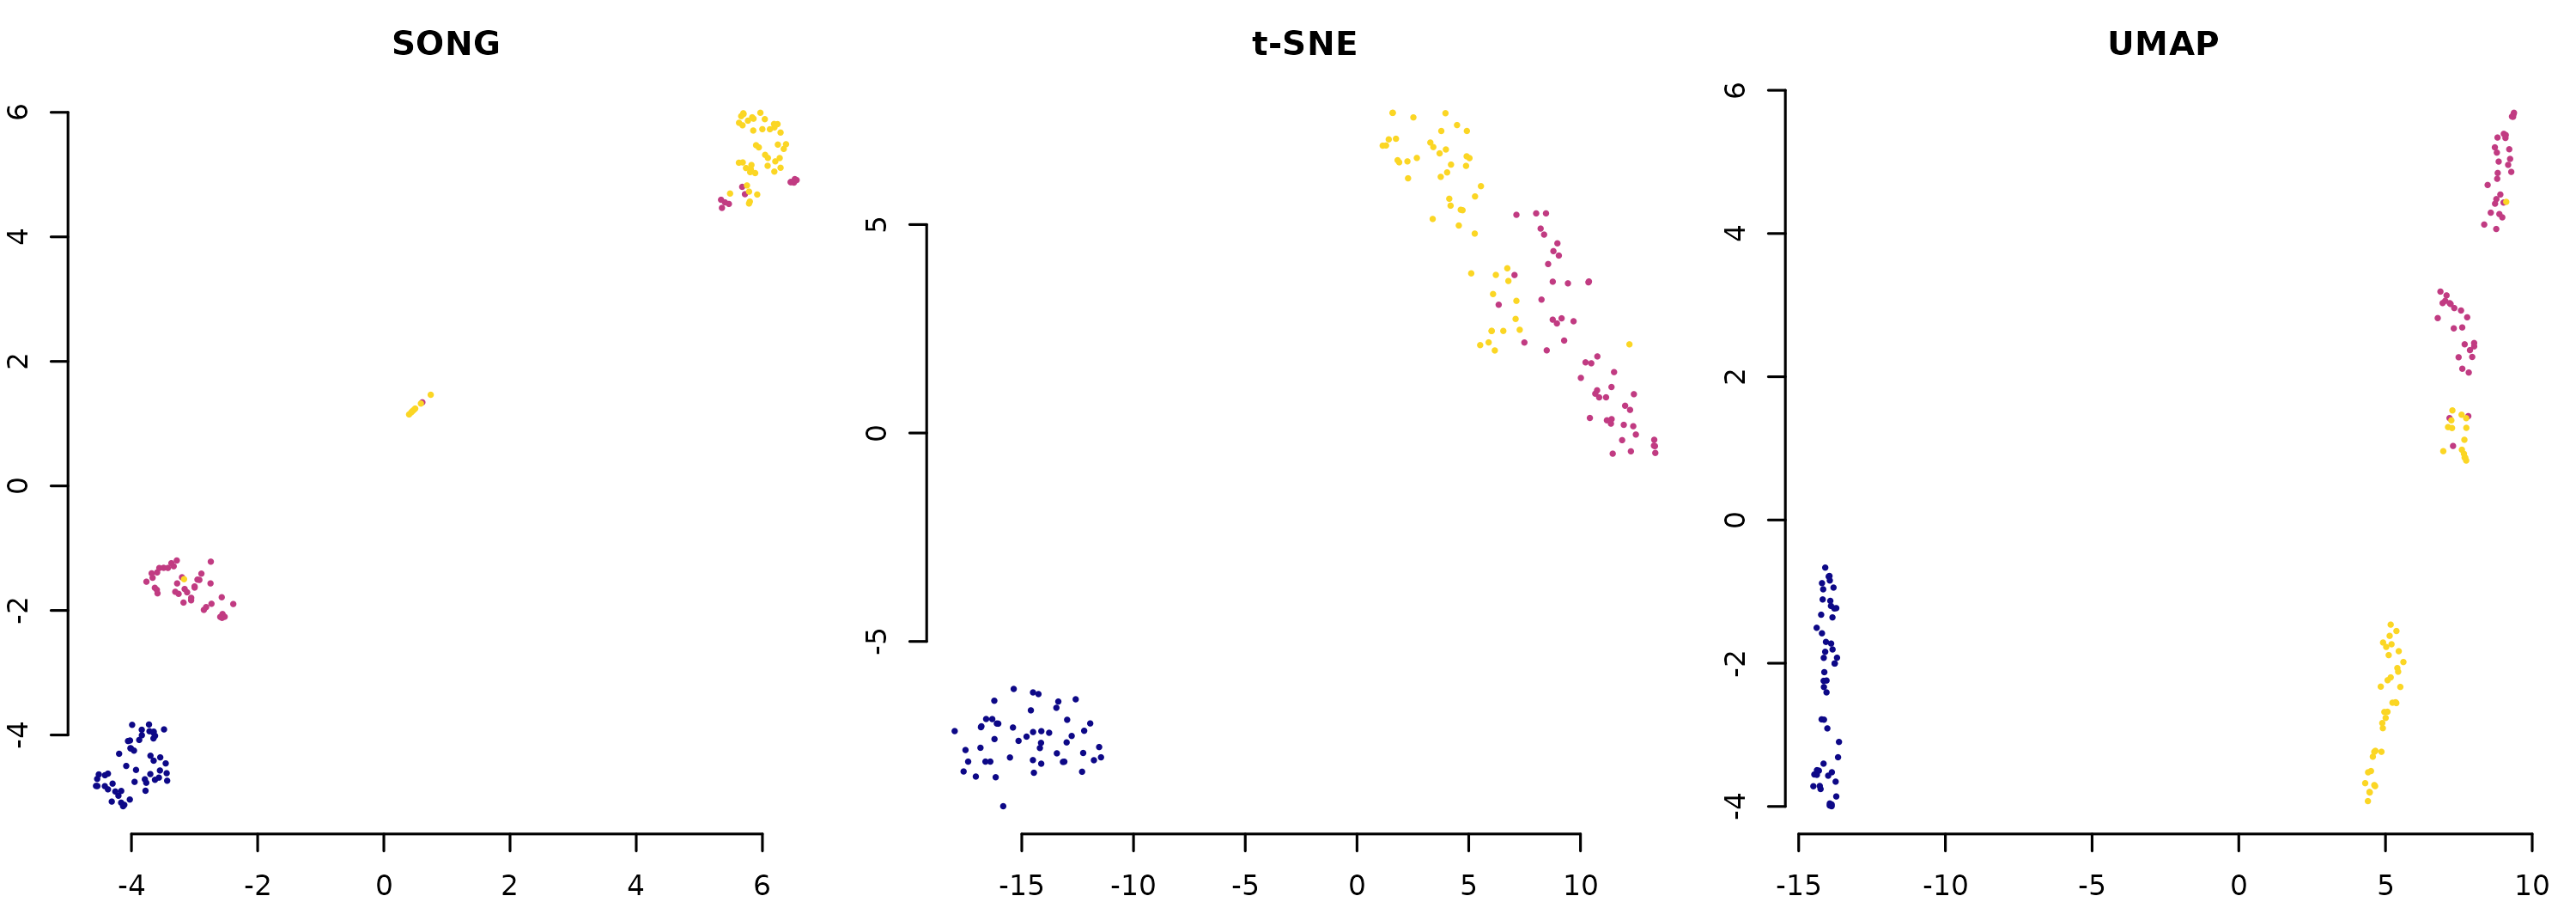
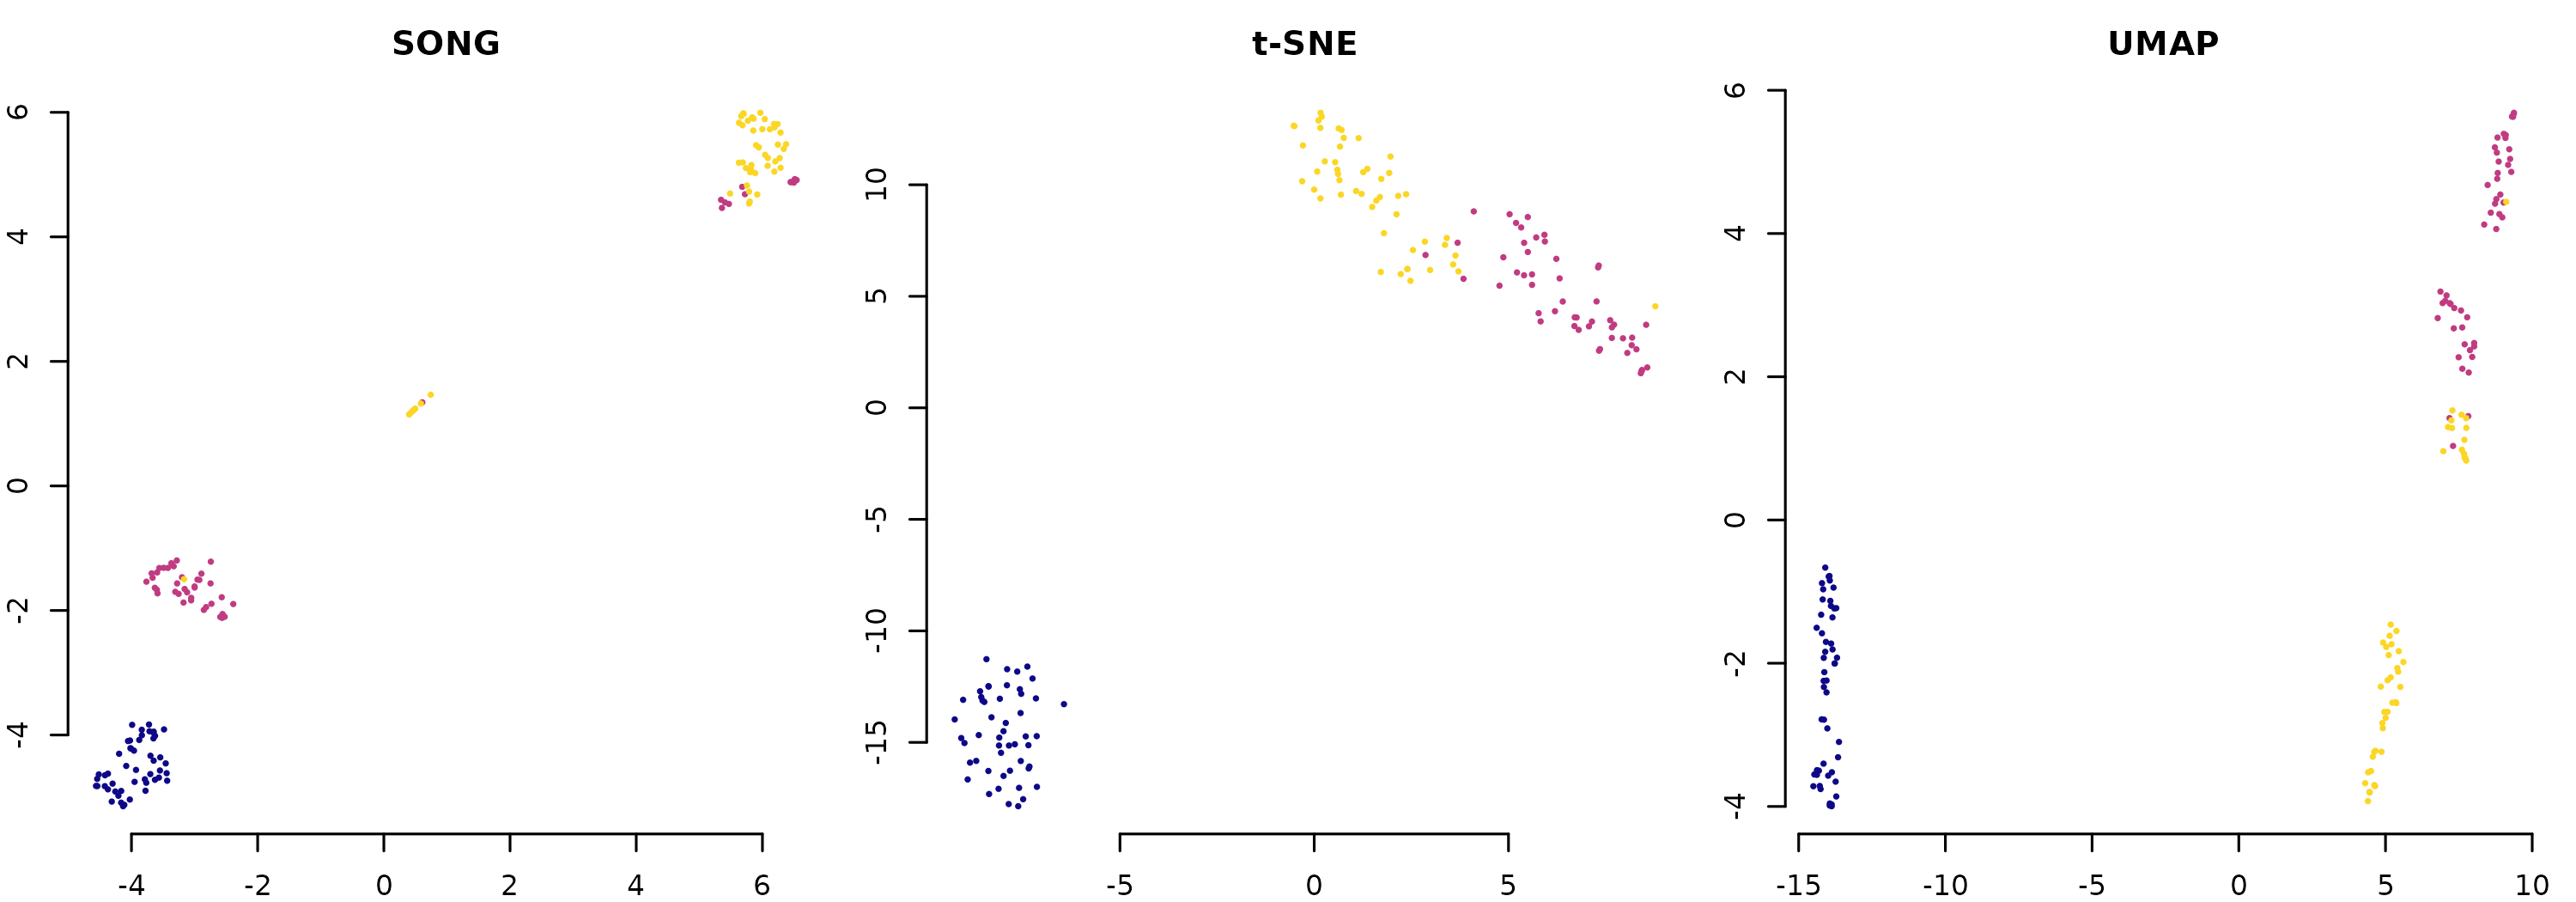
Deploying to gh-pages from @ CTTIR/songR@e97bd79a03a0263a91c1bdc85632c784badc1808 🚀

diff --git a/deps/bootstrap-5.3.8/font.css b/deps/bootstrap-5.3.8/font.css
@@ -1,0 +1,189 @@
+/* cyrillic-ext */
+@font-face {
+  font-family: 'Source Sans Pro';
+  font-style: normal;
+  font-weight: 300;
+  font-display: swap;
+  src: url(fonts/6xKydSBYKcSV-LCoeQqfX1RYOo3ik4zwmhduz8A.woff2) format('woff2');
+  unicode-range: U+0460-052F, U+1C80-1C8A, U+20B4, U+2DE0-2DFF, U+A640-A69F, U+FE2E-FE2F;
+}
+/* cyrillic */
+@font-face {
+  font-family: 'Source Sans Pro';
+  font-style: normal;
+  font-weight: 300;
+  font-display: swap;
+  src: url(fonts/6xKydSBYKcSV-LCoeQqfX1RYOo3ik4zwkxduz8A.woff2) format('woff2');
+  unicode-range: U+0301, U+0400-045F, U[phone redacted], U+04B0-04B1, U+2116;
+}
+/* greek-ext */
+@font-face {
+  font-family: 'Source Sans Pro';
+  font-style: normal;
+  font-weight: 300;
+  font-display: swap;
+  src: url(fonts/6xKydSBYKcSV-LCoeQqfX1RYOo3ik4zwmxduz8A.woff2) format('woff2');
+  unicode-range: U+1F00-1FFF;
+}
+/* greek */
+@font-face {
+  font-family: 'Source Sans Pro';
+  font-style: normal;
+  font-weight: 300;
+  font-display: swap;
+  src: url(fonts/6xKydSBYKcSV-LCoeQqfX1RYOo3ik4zwlBduz8A.woff2) format('woff2');
+  unicode-range: U[phone redacted], U+037A-037F, U+0384-038A, U+038C, U+038E-03A1, U+03A3-03FF;
+}
+/* vietnamese */
+@font-face {
+  font-family: 'Source Sans Pro';
+  font-style: normal;
+  font-weight: 300;
+  font-display: swap;
+  src: url(fonts/6xKydSBYKcSV-LCoeQqfX1RYOo3ik4zwmBduz8A.woff2) format('woff2');
+  unicode-range: U[phone redacted], U[phone redacted], U[phone redacted], U[phone redacted], U+01A0-01A1, U+01AF-01B0, U[phone redacted], U[phone redacted], U[phone redacted], U+0323, U+0329, U+1EA0-1EF9, U+20AB;
+}
+/* latin-ext */
+@font-face {
+  font-family: 'Source Sans Pro';
+  font-style: normal;
+  font-weight: 300;
+  font-display: swap;
+  src: url(fonts/6xKydSBYKcSV-LCoeQqfX1RYOo3ik4zwmRduz8A.woff2) format('woff2');
+  unicode-range: U+0100-02BA, U+02BD-02C5, U+02C7-02CC, U+02CE-02D7, U+02DD-02FF, U+0304, U+0308, U+0329, U+1D00-1DBF, U+1E00-1E9F, U+1EF2-1EFF, U+2020, U+20A0-20AB, U+20AD-20C0, U+2113, U+2C60-2C7F, U+A720-A7FF;
+}
+/* latin */
+@font-face {
+  font-family: 'Source Sans Pro';
+  font-style: normal;
+  font-weight: 300;
+  font-display: swap;
+  src: url(fonts/6xKydSBYKcSV-LCoeQqfX1RYOo3ik4zwlxdu.woff2) format('woff2');
+  unicode-range: U+0000-00FF, U+0131, U[phone redacted], U+02BB-02BC, U+02C6, U+02DA, U+02DC, U+0304, U+0308, U+0329, U+2000-206F, U+20AC, U+2122, U+2191, U+2193, U+2212, U+2215, U+FEFF, U+FFFD;
+}
+/* cyrillic-ext */
+@font-face {
+  font-family: 'Source Sans Pro';
+  font-style: normal;
+  font-weight: 400;
+  font-display: swap;
+  src: url(fonts/6xK3dSBYKcSV-LCoeQqfX1RYOo3qNa7lqDY.woff2) format('woff2');
+  unicode-range: U+0460-052F, U+1C80-1C8A, U+20B4, U+2DE0-2DFF, U+A640-A69F, U+FE2E-FE2F;
+}
+/* cyrillic */
+@font-face {
+  font-family: 'Source Sans Pro';
+  font-style: normal;
+  font-weight: 400;
+  font-display: swap;
+  src: url(fonts/6xK3dSBYKcSV-LCoeQqfX1RYOo3qPK7lqDY.woff2) format('woff2');
+  unicode-range: U+0301, U+0400-045F, U[phone redacted], U+04B0-04B1, U+2116;
+}
+/* greek-ext */
+@font-face {
+  font-family: 'Source Sans Pro';
+  font-style: normal;
+  font-weight: 400;
+  font-display: swap;
+  src: url(fonts/6xK3dSBYKcSV-LCoeQqfX1RYOo3qNK7lqDY.woff2) format('woff2');
+  unicode-range: U+1F00-1FFF;
+}
+/* greek */
+@font-face {
+  font-family: 'Source Sans Pro';
+  font-style: normal;
+  font-weight: 400;
+  font-display: swap;
+  src: url(fonts/6xK3dSBYKcSV-LCoeQqfX1RYOo3qO67lqDY.woff2) format('woff2');
+  unicode-range: U[phone redacted], U+037A-037F, U+0384-038A, U+038C, U+038E-03A1, U+03A3-03FF;
+}
+/* vietnamese */
+@font-face {
+  font-family: 'Source Sans Pro';
+  font-style: normal;
+  font-weight: 400;
+  font-display: swap;
+  src: url(fonts/6xK3dSBYKcSV-LCoeQqfX1RYOo3qN67lqDY.woff2) format('woff2');
+  unicode-range: U[phone redacted], U[phone redacted], U[phone redacted], U[phone redacted], U+01A0-01A1, U+01AF-01B0, U[phone redacted], U[phone redacted], U[phone redacted], U+0323, U+0329, U+1EA0-1EF9, U+20AB;
+}
+/* latin-ext */
+@font-face {
+  font-family: 'Source Sans Pro';
+  font-style: normal;
+  font-weight: 400;
+  font-display: swap;
+  src: url(fonts/6xK3dSBYKcSV-LCoeQqfX1RYOo3qNq7lqDY.woff2) format('woff2');
+  unicode-range: U+0100-02BA, U+02BD-02C5, U+02C7-02CC, U+02CE-02D7, U+02DD-02FF, U+0304, U+0308, U+0329, U+1D00-1DBF, U+1E00-1E9F, U+1EF2-1EFF, U+2020, U+20A0-20AB, U+20AD-20C0, U+2113, U+2C60-2C7F, U+A720-A7FF;
+}
+/* latin */
+@font-face {
+  font-family: 'Source Sans Pro';
+  font-style: normal;
+  font-weight: 400;
+  font-display: swap;
+  src: url(fonts/6xK3dSBYKcSV-LCoeQqfX1RYOo3qOK7l.woff2) format('woff2');
+  unicode-range: U+0000-00FF, U+0131, U[phone redacted], U+02BB-02BC, U+02C6, U+02DA, U+02DC, U+0304, U+0308, U+0329, U+2000-206F, U+20AC, U+2122, U+2191, U+2193, U+2212, U+2215, U+FEFF, U+FFFD;
+}
+/* cyrillic-ext */
+@font-face {
+  font-family: 'Source Sans Pro';
+  font-style: normal;
+  font-weight: 700;
+  font-display: swap;
+  src: url(fonts/6xKydSBYKcSV-LCoeQqfX1RYOo3ig4vwmhduz8A.woff2) format('woff2');
+  unicode-range: U+0460-052F, U+1C80-1C8A, U+20B4, U+2DE0-2DFF, U+A640-A69F, U+FE2E-FE2F;
+}
+/* cyrillic */
+@font-face {
+  font-family: 'Source Sans Pro';
+  font-style: normal;
+  font-weight: 700;
+  font-display: swap;
+  src: url(fonts/6xKydSBYKcSV-LCoeQqfX1RYOo3ig4vwkxduz8A.woff2) format('woff2');
+  unicode-range: U+0301, U+0400-045F, U[phone redacted], U+04B0-04B1, U+2116;
+}
+/* greek-ext */
+@font-face {
+  font-family: 'Source Sans Pro';
+  font-style: normal;
+  font-weight: 700;
+  font-display: swap;
+  src: url(fonts/6xKydSBYKcSV-LCoeQqfX1RYOo3ig4vwmxduz8A.woff2) format('woff2');
+  unicode-range: U+1F00-1FFF;
+}
+/* greek */
+@font-face {
+  font-family: 'Source Sans Pro';
+  font-style: normal;
+  font-weight: 700;
+  font-display: swap;
+  src: url(fonts/6xKydSBYKcSV-LCoeQqfX1RYOo3ig4vwlBduz8A.woff2) format('woff2');
+  unicode-range: U[phone redacted], U+037A-037F, U+0384-038A, U+038C, U+038E-03A1, U+03A3-03FF;
+}
+/* vietnamese */
+@font-face {
+  font-family: 'Source Sans Pro';
+  font-style: normal;
+  font-weight: 700;
+  font-display: swap;
+  src: url(fonts/6xKydSBYKcSV-LCoeQqfX1RYOo3ig4vwmBduz8A.woff2) format('woff2');
+  unicode-range: U[phone redacted], U[phone redacted], U[phone redacted], U[phone redacted], U+01A0-01A1, U+01AF-01B0, U[phone redacted], U[phone redacted], U[phone redacted], U+0323, U+0329, U+1EA0-1EF9, U+20AB;
+}
+/* latin-ext */
+@font-face {
+  font-family: 'Source Sans Pro';
+  font-style: normal;
+  font-weight: 700;
+  font-display: swap;
+  src: url(fonts/6xKydSBYKcSV-LCoeQqfX1RYOo3ig4vwmRduz8A.woff2) format('woff2');
+  unicode-range: U+0100-02BA, U+02BD-02C5, U+02C7-02CC, U+02CE-02D7, U+02DD-02FF, U+0304, U+0308, U+0329, U+1D00-1DBF, U+1E00-1E9F, U+1EF2-1EFF, U+2020, U+20A0-20AB, U+20AD-20C0, U+2113, U+2C60-2C7F, U+A720-A7FF;
+}
+/* latin */
+@font-face {
+  font-family: 'Source Sans Pro';
+  font-style: normal;
+  font-weight: 700;
+  font-display: swap;
+  src: url(fonts/6xKydSBYKcSV-LCoeQqfX1RYOo3ig4vwlxdu.woff2) format('woff2');
+  unicode-range: U+0000-00FF, U+0131, U[phone redacted], U+02BB-02BC, U+02C6, U+02DA, U+02DC, U+0304, U+0308, U+0329, U+2000-206F, U+20AC, U+2122, U+2191, U+2193, U+2212, U+2215, U+FEFF, U+FFFD;
+}

diff --git a/articles/reproducing_paper_figures.html b/articles/reproducing_paper_figures.html
@@ -12,8 +12,8 @@
 <link rel="icon" sizes="any" href="../favicon.ico">
 <link rel="manifest" href="../site.webmanifest">
 <script src="../deps/jquery-3.6.0/jquery-3.6.0.min.js"></script><meta name="viewport" content="width=device-width, initial-scale=1, shrink-to-fit=no">
-<link href="../deps/bootstrap-5.3.1/bootstrap.min.css" rel="stylesheet">
-<script src="../deps/bootstrap-5.3.1/bootstrap.bundle.min.js"></script><link href="../deps/font-awesome-6.5.2/css/all.min.css" rel="stylesheet">
+<link href="../deps/bootstrap-5.3.8/bootstrap.min.css" rel="stylesheet">
+<script src="../deps/bootstrap-5.3.8/bootstrap.bundle.min.js"></script><link href="../deps/font-awesome-6.5.2/css/all.min.css" rel="stylesheet">
 <link href="../deps/font-awesome-6.5.2/css/v4-shims.min.css" rel="stylesheet">
 <script src="../deps/headroom-0.11.0/headroom.min.js"></script><script src="../deps/headroom-0.11.0/jQuery.headroom.min.js"></script><script src="../deps/bootstrap-toc-1.0.1/bootstrap-toc.min.js"></script><script src="../deps/clipboard.js-2.0.11/clipboard.min.js"></script><script src="../deps/search-1.0.0/autocomplete.jquery.min.js"></script><script src="../deps/search-1.0.0/fuse.min.js"></script><script src="../deps/search-1.0.0/mark.min.js"></script><!-- pkgdown --><script src="../pkgdown.js"></script><meta property="og:title" content="Reproducing Paper Figures with songR">
 </head>
@@ -67,7 +67,7 @@
                         <h4 data-toc-skip class="author">Raban
 Heller</h4>
             
-            <h4 data-toc-skip class="date">2026-05-04</h4>
+            <h4 data-toc-skip class="date">2026-06-10</h4>
       
       <small class="dont-index">Source: <a href="https://github.com/r-heller/songR/blob/main/vignettes/articles/reproducing_paper_figures.Rmd" class="external-link"><code>vignettes/articles/reproducing_paper_figures.Rmd</code></a></small>
       <div class="d-none name"><code>reproducing_paper_figures.Rmd</code></div>
@@ -481,10 +481,10 @@ Visualization. <em>IEEE TNNLS</em>, 32(10), 4588-4602. <a href="https://doi.org/
 <span><span class="co">#&gt;  [1] Matrix_1.7-5       gtable_0.3.6       jsonlite_2.0.0     compiler_4.6.0    </span></span>
 <span><span class="co">#&gt;  [5] Rcpp_1.1.1-1.1     FNN_1.1.4.1        gridExtra_2.3      jquerylib_0.1.4   </span></span>
 <span><span class="co">#&gt;  [9] systemfonts_1.3.2  scales_1.4.0       textshaping_1.0.5  yaml_2.3.12       </span></span>
-<span><span class="co">#&gt; [13] fastmap_1.2.0      uwot_0.2.4         aricode_1.0.3      lattice_0.22-9    </span></span>
+<span><span class="co">#&gt; [13] fastmap_1.2.0      uwot_0.2.4         aricode_1.1.0      lattice_0.22-9    </span></span>
 <span><span class="co">#&gt; [17] ggplot2_4.0.3      R6_2.6.1           knitr_1.51         Rtsne_0.17        </span></span>
-<span><span class="co">#&gt; [21] desc_1.4.3         bslib_0.10.0       RColorBrewer_1.1-3 rlang_1.2.0       </span></span>
-<span><span class="co">#&gt; [25] cachem_1.1.0       xfun_0.57          fs_2.1.0           sass_0.4.10       </span></span>
+<span><span class="co">#&gt; [21] desc_1.4.3         bslib_0.11.0       RColorBrewer_1.1-3 rlang_1.2.0       </span></span>
+<span><span class="co">#&gt; [25] cachem_1.1.0       xfun_0.58          fs_2.1.0           sass_0.4.10       </span></span>
 <span><span class="co">#&gt; [29] S7_0.2.2           otel_0.2.0         cli_3.6.6          pkgdown_2.2.0     </span></span>
 <span><span class="co">#&gt; [33] digest_0.6.39      grid_4.6.0         irlba_2.3.7        lifecycle_1.0.5   </span></span>
 <span><span class="co">#&gt; [37] vctrs_0.7.3        evaluate_1.0.5     glue_1.8.1         farver_2.1.2      </span></span>

diff --git a/articles/introduction.html b/articles/introduction.html
@@ -12,8 +12,8 @@
 <link rel="icon" sizes="any" href="../favicon.ico">
 <link rel="manifest" href="../site.webmanifest">
 <script src="../deps/jquery-3.6.0/jquery-3.6.0.min.js"></script><meta name="viewport" content="width=device-width, initial-scale=1, shrink-to-fit=no">
-<link href="../deps/bootstrap-5.3.1/bootstrap.min.css" rel="stylesheet">
-<script src="../deps/bootstrap-5.3.1/bootstrap.bundle.min.js"></script><link href="../deps/font-awesome-6.5.2/css/all.min.css" rel="stylesheet">
+<link href="../deps/bootstrap-5.3.8/bootstrap.min.css" rel="stylesheet">
+<script src="../deps/bootstrap-5.3.8/bootstrap.bundle.min.js"></script><link href="../deps/font-awesome-6.5.2/css/all.min.css" rel="stylesheet">
 <link href="../deps/font-awesome-6.5.2/css/v4-shims.min.css" rel="stylesheet">
 <script src="../deps/headroom-0.11.0/headroom.min.js"></script><script src="../deps/headroom-0.11.0/jQuery.headroom.min.js"></script><script src="../deps/bootstrap-toc-1.0.1/bootstrap-toc.min.js"></script><script src="../deps/clipboard.js-2.0.11/clipboard.min.js"></script><script src="../deps/search-1.0.0/autocomplete.jquery.min.js"></script><script src="../deps/search-1.0.0/fuse.min.js"></script><script src="../deps/search-1.0.0/mark.min.js"></script><!-- pkgdown --><script src="../pkgdown.js"></script><meta property="og:title" content="Introduction to songR">
 </head>
@@ -67,7 +67,7 @@
                         <h4 data-toc-skip class="author">Raban
 Heller</h4>
             
-            <h4 data-toc-skip class="date">2026-05-04</h4>
+            <h4 data-toc-skip class="date">2026-06-10</h4>
       
       <small class="dont-index">Source: <a href="https://github.com/r-heller/songR/blob/main/vignettes/introduction.Rmd" class="external-link"><code>vignettes/introduction.Rmd</code></a></small>
       <div class="d-none name"><code>introduction.Rmd</code></div>
@@ -396,14 +396,14 @@ side-by-side on your own data.</p>
 <span><span class="co">#&gt; </span></span>
 <span><span class="co">#&gt; loaded via a namespace (and not attached):</span></span>
 <span><span class="co">#&gt;  [1] vctrs_0.7.3        cli_3.6.6          knitr_1.51         rlang_1.2.0       </span></span>
-<span><span class="co">#&gt;  [5] xfun_0.57          otel_0.2.0         S7_0.2.2           textshaping_1.0.5 </span></span>
+<span><span class="co">#&gt;  [5] xfun_0.58          otel_0.2.0         S7_0.2.2           textshaping_1.0.5 </span></span>
 <span><span class="co">#&gt;  [9] jsonlite_2.0.0     glue_1.8.1         Rtsne_0.17         htmltools_0.5.9   </span></span>
 <span><span class="co">#&gt; [13] ragg_1.5.2         sass_0.4.10        uwot_0.2.4         scales_1.4.0      </span></span>
 <span><span class="co">#&gt; [17] rmarkdown_2.31     grid_4.6.0         evaluate_1.0.5     jquerylib_0.1.4   </span></span>
 <span><span class="co">#&gt; [21] fastmap_1.2.0      yaml_2.3.12        lifecycle_1.0.5    FNN_1.1.4.1       </span></span>
 <span><span class="co">#&gt; [25] compiler_4.6.0     RColorBrewer_1.1-3 fs_2.1.0           Rcpp_1.1.1-1.1    </span></span>
 <span><span class="co">#&gt; [29] farver_2.1.2       systemfonts_1.3.2  lattice_0.22-9     digest_0.6.39     </span></span>
-<span><span class="co">#&gt; [33] R6_2.6.1           bslib_0.10.0       Matrix_1.7-5       gtable_0.3.6      </span></span>
+<span><span class="co">#&gt; [33] R6_2.6.1           bslib_0.11.0       Matrix_1.7-5       gtable_0.3.6      </span></span>
 <span><span class="co">#&gt; [37] tools_4.6.0        ggplot2_4.0.3      pkgdown_2.2.0      cachem_1.1.0      </span></span>
 <span><span class="co">#&gt; [41] desc_1.4.3</span></span></code></pre></div>
 </div>

diff --git a/articles/songR_quickstart.html b/articles/songR_quickstart.html
@@ -12,8 +12,8 @@
 <link rel="icon" sizes="any" href="../favicon.ico">
 <link rel="manifest" href="../site.webmanifest">
 <script src="../deps/jquery-3.6.0/jquery-3.6.0.min.js"></script><meta name="viewport" content="width=device-width, initial-scale=1, shrink-to-fit=no">
-<link href="../deps/bootstrap-5.3.1/bootstrap.min.css" rel="stylesheet">
-<script src="../deps/bootstrap-5.3.1/bootstrap.bundle.min.js"></script><link href="../deps/font-awesome-6.5.2/css/all.min.css" rel="stylesheet">
+<link href="../deps/bootstrap-5.3.8/bootstrap.min.css" rel="stylesheet">
+<script src="../deps/bootstrap-5.3.8/bootstrap.bundle.min.js"></script><link href="../deps/font-awesome-6.5.2/css/all.min.css" rel="stylesheet">
 <link href="../deps/font-awesome-6.5.2/css/v4-shims.min.css" rel="stylesheet">
 <script src="../deps/headroom-0.11.0/headroom.min.js"></script><script src="../deps/headroom-0.11.0/jQuery.headroom.min.js"></script><script src="../deps/bootstrap-toc-1.0.1/bootstrap-toc.min.js"></script><script src="../deps/clipboard.js-2.0.11/clipboard.min.js"></script><script src="../deps/search-1.0.0/autocomplete.jquery.min.js"></script><script src="../deps/search-1.0.0/fuse.min.js"></script><script src="../deps/search-1.0.0/mark.min.js"></script><!-- pkgdown --><script src="../pkgdown.js"></script><meta property="og:title" content="Getting Started with songR">
 </head>
@@ -67,7 +67,7 @@
                         <h4 data-toc-skip class="author">Raban
 Heller</h4>
             
-            <h4 data-toc-skip class="date">2026-05-04</h4>
+            <h4 data-toc-skip class="date">2026-06-10</h4>
       
       <small class="dont-index">Source: <a href="https://github.com/r-heller/songR/blob/main/vignettes/songR_quickstart.Rmd" class="external-link"><code>vignettes/songR_quickstart.Rmd</code></a></small>
       <div class="d-none name"><code>songR_quickstart.Rmd</code></div>
@@ -401,14 +401,14 @@ Systems</em>, 32(10), 4588-4602. <a href="https://doi.org/10.1109/TNNLS.2020.302
 <span><span class="co">#&gt; </span></span>
 <span><span class="co">#&gt; loaded via a namespace (and not attached):</span></span>
 <span><span class="co">#&gt;  [1] vctrs_0.7.3        cli_3.6.6          knitr_1.51         rlang_1.2.0       </span></span>
-<span><span class="co">#&gt;  [5] xfun_0.57          otel_0.2.0         S7_0.2.2           textshaping_1.0.5 </span></span>
+<span><span class="co">#&gt;  [5] xfun_0.58          otel_0.2.0         S7_0.2.2           textshaping_1.0.5 </span></span>
 <span><span class="co">#&gt;  [9] jsonlite_2.0.0     glue_1.8.1         htmltools_0.5.9    ragg_1.5.2        </span></span>
 <span><span class="co">#&gt; [13] sass_0.4.10        uwot_0.2.4         scales_1.4.0       rmarkdown_2.31    </span></span>
 <span><span class="co">#&gt; [17] grid_4.6.0         evaluate_1.0.5     jquerylib_0.1.4    fastmap_1.2.0     </span></span>
 <span><span class="co">#&gt; [21] yaml_2.3.12        lifecycle_1.0.5    FNN_1.1.4.1        compiler_4.6.0    </span></span>
 <span><span class="co">#&gt; [25] RColorBrewer_1.1-3 fs_2.1.0           Rcpp_1.1.1-1.1     lattice_0.22-9    </span></span>
 <span><span class="co">#&gt; [29] farver_2.1.2       systemfonts_1.3.2  digest_0.6.39      R6_2.6.1          </span></span>
-<span><span class="co">#&gt; [33] Matrix_1.7-5       bslib_0.10.0       gtable_0.3.6       tools_4.6.0       </span></span>
+<span><span class="co">#&gt; [33] Matrix_1.7-5       bslib_0.11.0       gtable_0.3.6       tools_4.6.0       </span></span>
 <span><span class="co">#&gt; [37] pkgdown_2.2.0      ggplot2_4.0.3      cachem_1.1.0       desc_1.4.3</span></span></code></pre></div>
 </div>
   </main><aside class="col-md-3"><nav id="toc" aria-label="Table of contents"><h2>On this page</h2>

diff --git a/articles/songR_shiny_app.html b/articles/songR_shiny_app.html
@@ -12,8 +12,8 @@
 <link rel="icon" sizes="any" href="../favicon.ico">
 <link rel="manifest" href="../site.webmanifest">
 <script src="../deps/jquery-3.6.0/jquery-3.6.0.min.js"></script><meta name="viewport" content="width=device-width, initial-scale=1, shrink-to-fit=no">
-<link href="../deps/bootstrap-5.3.1/bootstrap.min.css" rel="stylesheet">
-<script src="../deps/bootstrap-5.3.1/bootstrap.bundle.min.js"></script><link href="../deps/font-awesome-6.5.2/css/all.min.css" rel="stylesheet">
+<link href="../deps/bootstrap-5.3.8/bootstrap.min.css" rel="stylesheet">
+<script src="../deps/bootstrap-5.3.8/bootstrap.bundle.min.js"></script><link href="../deps/font-awesome-6.5.2/css/all.min.css" rel="stylesheet">
 <link href="../deps/font-awesome-6.5.2/css/v4-shims.min.css" rel="stylesheet">
 <script src="../deps/headroom-0.11.0/headroom.min.js"></script><script src="../deps/headroom-0.11.0/jQuery.headroom.min.js"></script><script src="../deps/bootstrap-toc-1.0.1/bootstrap-toc.min.js"></script><script src="../deps/clipboard.js-2.0.11/clipboard.min.js"></script><script src="../deps/search-1.0.0/autocomplete.jquery.min.js"></script><script src="../deps/search-1.0.0/fuse.min.js"></script><script src="../deps/search-1.0.0/mark.min.js"></script><!-- pkgdown --><script src="../pkgdown.js"></script><meta property="og:title" content="Interactive Visualization with the songR Shiny App">
 </head>
@@ -67,7 +67,7 @@
                         <h4 data-toc-skip class="author">Raban
 Heller</h4>
             
-            <h4 data-toc-skip class="date">2026-05-04</h4>
+            <h4 data-toc-skip class="date">2026-06-10</h4>
       
       <small class="dont-index">Source: <a href="https://github.com/r-heller/songR/blob/main/vignettes/articles/songR_shiny_app.Rmd" class="external-link"><code>vignettes/articles/songR_shiny_app.Rmd</code></a></small>
       <div class="d-none name"><code>songR_shiny_app.Rmd</code></div>
@@ -257,10 +257,10 @@ PNG/PDF</li>
 <span><span class="co">#&gt; </span></span>
 <span><span class="co">#&gt; loaded via a namespace (and not attached):</span></span>
 <span><span class="co">#&gt;  [1] digest_0.6.39     desc_1.4.3        R6_2.6.1          fastmap_1.2.0    </span></span>
-<span><span class="co">#&gt;  [5] xfun_0.57         cachem_1.1.0      knitr_1.51        htmltools_0.5.9  </span></span>
+<span><span class="co">#&gt;  [5] xfun_0.58         cachem_1.1.0      knitr_1.51        htmltools_0.5.9  </span></span>
 <span><span class="co">#&gt;  [9] rmarkdown_2.31    lifecycle_1.0.5   cli_3.6.6         sass_0.4.10      </span></span>
 <span><span class="co">#&gt; [13] pkgdown_2.2.0     textshaping_1.0.5 jquerylib_0.1.4   systemfonts_1.3.2</span></span>
-<span><span class="co">#&gt; [17] compiler_4.6.0    tools_4.6.0       ragg_1.5.2        bslib_0.10.0     </span></span>
+<span><span class="co">#&gt; [17] compiler_4.6.0    tools_4.6.0       ragg_1.5.2        bslib_0.11.0     </span></span>
 <span><span class="co">#&gt; [21] evaluate_1.0.5    yaml_2.3.12       otel_0.2.0        jsonlite_2.0.0   </span></span>
 <span><span class="co">#&gt; [25] rlang_1.2.0       fs_2.1.0</span></span></code></pre></div>
 </div>

diff --git a/404.html b/404.html
@@ -12,8 +12,8 @@
 <link rel="icon" sizes="any" href="https://r-heller.github.io/songR/favicon.ico">
 <link rel="manifest" href="https://r-heller.github.io/songR/site.webmanifest">
 <script src="https://r-heller.github.io/songR/deps/jquery-3.6.0/jquery-3.6.0.min.js"></script><meta name="viewport" content="width=device-width, initial-scale=1, shrink-to-fit=no">
-<link href="https://r-heller.github.io/songR/deps/bootstrap-5.3.1/bootstrap.min.css" rel="stylesheet">
-<script src="https://r-heller.github.io/songR/deps/bootstrap-5.3.1/bootstrap.bundle.min.js"></script><link href="https://r-heller.github.io/songR/deps/font-awesome-6.5.2/css/all.min.css" rel="stylesheet">
+<link href="https://r-heller.github.io/songR/deps/bootstrap-5.3.8/bootstrap.min.css" rel="stylesheet">
+<script src="https://r-heller.github.io/songR/deps/bootstrap-5.3.8/bootstrap.bundle.min.js"></script><link href="https://r-heller.github.io/songR/deps/font-awesome-6.5.2/css/all.min.css" rel="stylesheet">
 <link href="https://r-heller.github.io/songR/deps/font-awesome-6.5.2/css/v4-shims.min.css" rel="stylesheet">
 <script src="https://r-heller.github.io/songR/deps/headroom-0.11.0/headroom.min.js"></script><script src="https://r-heller.github.io/songR/deps/headroom-0.11.0/jQuery.headroom.min.js"></script><script src="https://r-heller.github.io/songR/deps/bootstrap-toc-1.0.1/bootstrap-toc.min.js"></script><script src="https://r-heller.github.io/songR/deps/clipboard.js-2.0.11/clipboard.min.js"></script><script src="https://r-heller.github.io/songR/deps/search-1.0.0/autocomplete.jquery.min.js"></script><script src="https://r-heller.github.io/songR/deps/search-1.0.0/fuse.min.js"></script><script src="https://r-heller.github.io/songR/deps/search-1.0.0/mark.min.js"></script><!-- pkgdown --><script src="https://r-heller.github.io/songR/pkgdown.js"></script><meta property="og:title" content="Page not found (404)">
 <meta property="og:image" content="https://r-heller.github.io/songR/logo.svg">

diff --git a/index.html b/index.html
@@ -12,8 +12,8 @@
 <link rel="icon" sizes="any" href="favicon.ico">
 <link rel="manifest" href="site.webmanifest">
 <script src="deps/jquery-3.6.0/jquery-3.6.0.min.js"></script><meta name="viewport" content="width=device-width, initial-scale=1, shrink-to-fit=no">
-<link href="deps/bootstrap-5.3.1/bootstrap.min.css" rel="stylesheet">
-<script src="deps/bootstrap-5.3.1/bootstrap.bundle.min.js"></script><link href="deps/font-awesome-6.5.2/css/all.min.css" rel="stylesheet">
+<link href="deps/bootstrap-5.3.8/bootstrap.min.css" rel="stylesheet">
+<script src="deps/bootstrap-5.3.8/bootstrap.bundle.min.js"></script><link href="deps/font-awesome-6.5.2/css/all.min.css" rel="stylesheet">
 <link href="deps/font-awesome-6.5.2/css/v4-shims.min.css" rel="stylesheet">
 <script src="deps/headroom-0.11.0/headroom.min.js"></script><script src="deps/headroom-0.11.0/jQuery.headroom.min.js"></script><script src="deps/bootstrap-toc-1.0.1/bootstrap-toc.min.js"></script><script src="deps/clipboard.js-2.0.11/clipboard.min.js"></script><script src="deps/search-1.0.0/autocomplete.jquery.min.js"></script><script src="deps/search-1.0.0/fuse.min.js"></script><script src="deps/search-1.0.0/mark.min.js"></script><!-- pkgdown --><script src="pkgdown.js"></script><meta property="og:title" content="Self-Organizing Nebulous Growths for Dimensionality Reduction">
 <meta name="description" content="Native R/C++ implementation of the Self-Organizing Nebulous Growths (SONG) algorithm for nonlinear dimensionality reduction and data visualization. SONG is a parametric method that supports incremental addition of new data to existing visualizations without reinitialization, handles both homogeneous and heterogeneous data increments, and is robust to noise and highly mixed clusters. Based on the algorithm described in Senanayake et al. (2021) &lt;doi:10.1109/TNNLS.2020.3023941&gt;. Includes an interactive Shiny application for comparing SONG, t-SNE, and UMAP visualizations side-by-side.">

diff --git a/LICENSE-text.html b/LICENSE-text.html
@@ -1,5 +1,5 @@
 <!DOCTYPE html>
-<!-- Generated by pkgdown: do not edit by hand --><html lang="en"><head><meta http-equiv="Content-Type" content="text/html; charset=UTF-8"><meta charset="utf-8"><meta http-equiv="X-UA-Compatible" content="IE=edge"><meta name="viewport" content="width=device-width, initial-scale=1, shrink-to-fit=no"><title>License • songR</title><!-- favicons --><link rel="icon" type="image/png" sizes="96x96" href="favicon-96x96.png"><link rel="icon" type="”image/svg+xml”" href="favicon.svg"><link rel="apple-touch-icon" sizes="180x180" href="apple-touch-icon.png"><link rel="icon" sizes="any" href="favicon.ico"><link rel="manifest" href="site.webmanifest"><script src="deps/jquery-3.6.0/jquery-3.6.0.min.js"></script><meta name="viewport" content="width=device-width, initial-scale=1, shrink-to-fit=no"><link href="deps/bootstrap-5.3.1/bootstrap.min.css" rel="stylesheet"><script src="deps/bootstrap-5.3.1/bootstrap.bundle.min.js"></script><link href="deps/font-awesome-6.5.2/css/all.min.css" rel="stylesheet"><link href="deps/font-awesome-6.5.2/css/v4-shims.min.css" rel="stylesheet"><script src="deps/headroom-0.11.0/headroom.min.js"></script><script src="deps/headroom-0.11.0/jQuery.headroom.min.js"></script><script src="deps/bootstrap-toc-1.0.1/bootstrap-toc.min.js"></script><script src="deps/clipboard.js-2.0.11/clipboard.min.js"></script><script src="deps/search-1.0.0/autocomplete.jquery.min.js"></script><script src="deps/search-1.0.0/fuse.min.js"></script><script src="deps/search-1.0.0/mark.min.js"></script><!-- pkgdown --><script src="pkgdown.js"></script><meta property="og:title" content="License"><meta property="og:image" content="https://r-heller.github.io/songR/logo.svg"></head><body>
+<!-- Generated by pkgdown: do not edit by hand --><html lang="en"><head><meta http-equiv="Content-Type" content="text/html; charset=UTF-8"><meta charset="utf-8"><meta http-equiv="X-UA-Compatible" content="IE=edge"><meta name="viewport" content="width=device-width, initial-scale=1, shrink-to-fit=no"><title>License • songR</title><!-- favicons --><link rel="icon" type="image/png" sizes="96x96" href="favicon-96x96.png"><link rel="icon" type="”image/svg+xml”" href="favicon.svg"><link rel="apple-touch-icon" sizes="180x180" href="apple-touch-icon.png"><link rel="icon" sizes="any" href="favicon.ico"><link rel="manifest" href="site.webmanifest"><script src="deps/jquery-3.6.0/jquery-3.6.0.min.js"></script><meta name="viewport" content="width=device-width, initial-scale=1, shrink-to-fit=no"><link href="deps/bootstrap-5.3.8/bootstrap.min.css" rel="stylesheet"><script src="deps/bootstrap-5.3.8/bootstrap.bundle.min.js"></script><link href="deps/font-awesome-6.5.2/css/all.min.css" rel="stylesheet"><link href="deps/font-awesome-6.5.2/css/v4-shims.min.css" rel="stylesheet"><script src="deps/headroom-0.11.0/headroom.min.js"></script><script src="deps/headroom-0.11.0/jQuery.headroom.min.js"></script><script src="deps/bootstrap-toc-1.0.1/bootstrap-toc.min.js"></script><script src="deps/clipboard.js-2.0.11/clipboard.min.js"></script><script src="deps/search-1.0.0/autocomplete.jquery.min.js"></script><script src="deps/search-1.0.0/fuse.min.js"></script><script src="deps/search-1.0.0/mark.min.js"></script><!-- pkgdown --><script src="pkgdown.js"></script><meta property="og:title" content="License"><meta property="og:image" content="https://r-heller.github.io/songR/logo.svg"></head><body>
     <a href="#main" class="visually-hidden-focusable">Skip to contents</a>
 
 

diff --git a/LICENSE.html b/LICENSE.html
@@ -1,5 +1,5 @@
 <!DOCTYPE html>
-<!-- Generated by pkgdown: do not edit by hand --><html lang="en"><head><meta http-equiv="Content-Type" content="text/html; charset=UTF-8"><meta charset="utf-8"><meta http-equiv="X-UA-Compatible" content="IE=edge"><meta name="viewport" content="width=device-width, initial-scale=1, shrink-to-fit=no"><title>NA • songR</title><!-- favicons --><link rel="icon" type="image/png" sizes="96x96" href="favicon-96x96.png"><link rel="icon" type="”image/svg+xml”" href="favicon.svg"><link rel="apple-touch-icon" sizes="180x180" href="apple-touch-icon.png"><link rel="icon" sizes="any" href="favicon.ico"><link rel="manifest" href="site.webmanifest"><script src="deps/jquery-3.6.0/jquery-3.6.0.min.js"></script><meta name="viewport" content="width=device-width, initial-scale=1, shrink-to-fit=no"><link href="deps/bootstrap-5.3.1/bootstrap.min.css" rel="stylesheet"><script src="deps/bootstrap-5.3.1/bootstrap.bundle.min.js"></script><link href="deps/font-awesome-6.5.2/css/all.min.css" rel="stylesheet"><link href="deps/font-awesome-6.5.2/css/v4-shims.min.css" rel="stylesheet"><script src="deps/headroom-0.11.0/headroom.min.js"></script><script src="deps/headroom-0.11.0/jQuery.headroom.min.js"></script><script src="deps/bootstrap-toc-1.0.1/bootstrap-toc.min.js"></script><script src="deps/clipboard.js-2.0.11/clipboard.min.js"></script><script src="deps/search-1.0.0/autocomplete.jquery.min.js"></script><script src="deps/search-1.0.0/fuse.min.js"></script><script src="deps/search-1.0.0/mark.min.js"></script><!-- pkgdown --><script src="pkgdown.js"></script><meta property="og:title" content="NA"><meta property="og:image" content="https://r-heller.github.io/songR/logo.svg"></head><body>
+<!-- Generated by pkgdown: do not edit by hand --><html lang="en"><head><meta http-equiv="Content-Type" content="text/html; charset=UTF-8"><meta charset="utf-8"><meta http-equiv="X-UA-Compatible" content="IE=edge"><meta name="viewport" content="width=device-width, initial-scale=1, shrink-to-fit=no"><title>NA • songR</title><!-- favicons --><link rel="icon" type="image/png" sizes="96x96" href="favicon-96x96.png"><link rel="icon" type="”image/svg+xml”" href="favicon.svg"><link rel="apple-touch-icon" sizes="180x180" href="apple-touch-icon.png"><link rel="icon" sizes="any" href="favicon.ico"><link rel="manifest" href="site.webmanifest"><script src="deps/jquery-3.6.0/jquery-3.6.0.min.js"></script><meta name="viewport" content="width=device-width, initial-scale=1, shrink-to-fit=no"><link href="deps/bootstrap-5.3.8/bootstrap.min.css" rel="stylesheet"><script src="deps/bootstrap-5.3.8/bootstrap.bundle.min.js"></script><link href="deps/font-awesome-6.5.2/css/all.min.css" rel="stylesheet"><link href="deps/font-awesome-6.5.2/css/v4-shims.min.css" rel="stylesheet"><script src="deps/headroom-0.11.0/headroom.min.js"></script><script src="deps/headroom-0.11.0/jQuery.headroom.min.js"></script><script src="deps/bootstrap-toc-1.0.1/bootstrap-toc.min.js"></script><script src="deps/clipboard.js-2.0.11/clipboard.min.js"></script><script src="deps/search-1.0.0/autocomplete.jquery.min.js"></script><script src="deps/search-1.0.0/fuse.min.js"></script><script src="deps/search-1.0.0/mark.min.js"></script><!-- pkgdown --><script src="pkgdown.js"></script><meta property="og:title" content="NA"><meta property="og:image" content="https://r-heller.github.io/songR/logo.svg"></head><body>
     <a href="#main" class="visually-hidden-focusable">Skip to contents</a>
 
 

diff --git a/articles/index.html b/articles/index.html
@@ -1,5 +1,5 @@
 <!DOCTYPE html>
-<!-- Generated by pkgdown: do not edit by hand --><html lang="en"><head><meta http-equiv="Content-Type" content="text/html; charset=UTF-8"><meta charset="utf-8"><meta http-equiv="X-UA-Compatible" content="IE=edge"><meta name="viewport" content="width=device-width, initial-scale=1, shrink-to-fit=no"><title>Articles • songR</title><!-- favicons --><link rel="icon" type="image/png" sizes="96x96" href="../favicon-96x96.png"><link rel="icon" type="”image/svg+xml”" href="../favicon.svg"><link rel="apple-touch-icon" sizes="180x180" href="../apple-touch-icon.png"><link rel="icon" sizes="any" href="../favicon.ico"><link rel="manifest" href="../site.webmanifest"><script src="../deps/jquery-3.6.0/jquery-3.6.0.min.js"></script><meta name="viewport" content="width=device-width, initial-scale=1, shrink-to-fit=no"><link href="../deps/bootstrap-5.3.1/bootstrap.min.css" rel="stylesheet"><script src="../deps/bootstrap-5.3.1/bootstrap.bundle.min.js"></script><link href="../deps/font-awesome-6.5.2/css/all.min.css" rel="stylesheet"><link href="../deps/font-awesome-6.5.2/css/v4-shims.min.css" rel="stylesheet"><script src="../deps/headroom-0.11.0/headroom.min.js"></script><script src="../deps/headroom-0.11.0/jQuery.headroom.min.js"></script><script src="../deps/bootstrap-toc-1.0.1/bootstrap-toc.min.js"></script><script src="../deps/clipboard.js-2.0.11/clipboard.min.js"></script><script src="../deps/search-1.0.0/autocomplete.jquery.min.js"></script><script src="../deps/search-1.0.0/fuse.min.js"></script><script src="../deps/search-1.0.0/mark.min.js"></script><!-- pkgdown --><script src="../pkgdown.js"></script><meta property="og:title" content="Articles"><meta property="og:image" content="https://r-heller.github.io/songR/logo.svg"></head><body>
+<!-- Generated by pkgdown: do not edit by hand --><html lang="en"><head><meta http-equiv="Content-Type" content="text/html; charset=UTF-8"><meta charset="utf-8"><meta http-equiv="X-UA-Compatible" content="IE=edge"><meta name="viewport" content="width=device-width, initial-scale=1, shrink-to-fit=no"><title>Articles • songR</title><!-- favicons --><link rel="icon" type="image/png" sizes="96x96" href="../favicon-96x96.png"><link rel="icon" type="”image/svg+xml”" href="../favicon.svg"><link rel="apple-touch-icon" sizes="180x180" href="../apple-touch-icon.png"><link rel="icon" sizes="any" href="../favicon.ico"><link rel="manifest" href="../site.webmanifest"><script src="../deps/jquery-3.6.0/jquery-3.6.0.min.js"></script><meta name="viewport" content="width=device-width, initial-scale=1, shrink-to-fit=no"><link href="../deps/bootstrap-5.3.8/bootstrap.min.css" rel="stylesheet"><script src="../deps/bootstrap-5.3.8/bootstrap.bundle.min.js"></script><link href="../deps/font-awesome-6.5.2/css/all.min.css" rel="stylesheet"><link href="../deps/font-awesome-6.5.2/css/v4-shims.min.css" rel="stylesheet"><script src="../deps/headroom-0.11.0/headroom.min.js"></script><script src="../deps/headroom-0.11.0/jQuery.headroom.min.js"></script><script src="../deps/bootstrap-toc-1.0.1/bootstrap-toc.min.js"></script><script src="../deps/clipboard.js-2.0.11/clipboard.min.js"></script><script src="../deps/search-1.0.0/autocomplete.jquery.min.js"></script><script src="../deps/search-1.0.0/fuse.min.js"></script><script src="../deps/search-1.0.0/mark.min.js"></script><!-- pkgdown --><script src="../pkgdown.js"></script><meta property="og:title" content="Articles"><meta property="og:image" content="https://r-heller.github.io/songR/logo.svg"></head><body>
     <a href="#main" class="visually-hidden-focusable">Skip to contents</a>
 
 

diff --git a/authors.html b/authors.html
@@ -1,5 +1,5 @@
 <!DOCTYPE html>
-<!-- Generated by pkgdown: do not edit by hand --><html lang="en"><head><meta http-equiv="Content-Type" content="text/html; charset=UTF-8"><meta charset="utf-8"><meta http-equiv="X-UA-Compatible" content="IE=edge"><meta name="viewport" content="width=device-width, initial-scale=1, shrink-to-fit=no"><title>Authors and Citation • songR</title><!-- favicons --><link rel="icon" type="image/png" sizes="96x96" href="favicon-96x96.png"><link rel="icon" type="”image/svg+xml”" href="favicon.svg"><link rel="apple-touch-icon" sizes="180x180" href="apple-touch-icon.png"><link rel="icon" sizes="any" href="favicon.ico"><link rel="manifest" href="site.webmanifest"><script src="deps/jquery-3.6.0/jquery-3.6.0.min.js"></script><meta name="viewport" content="width=device-width, initial-scale=1, shrink-to-fit=no"><link href="deps/bootstrap-5.3.1/bootstrap.min.css" rel="stylesheet"><script src="deps/bootstrap-5.3.1/bootstrap.bundle.min.js"></script><link href="deps/font-awesome-6.5.2/css/all.min.css" rel="stylesheet"><link href="deps/font-awesome-6.5.2/css/v4-shims.min.css" rel="stylesheet"><script src="deps/headroom-0.11.0/headroom.min.js"></script><script src="deps/headroom-0.11.0/jQuery.headroom.min.js"></script><script src="deps/bootstrap-toc-1.0.1/bootstrap-toc.min.js"></script><script src="deps/clipboard.js-2.0.11/clipboard.min.js"></script><script src="deps/search-1.0.0/autocomplete.jquery.min.js"></script><script src="deps/search-1.0.0/fuse.min.js"></script><script src="deps/search-1.0.0/mark.min.js"></script><!-- pkgdown --><script src="pkgdown.js"></script><meta property="og:title" content="Authors and Citation"><meta property="og:image" content="https://r-heller.github.io/songR/logo.svg"></head><body>
+<!-- Generated by pkgdown: do not edit by hand --><html lang="en"><head><meta http-equiv="Content-Type" content="text/html; charset=UTF-8"><meta charset="utf-8"><meta http-equiv="X-UA-Compatible" content="IE=edge"><meta name="viewport" content="width=device-width, initial-scale=1, shrink-to-fit=no"><title>Authors and Citation • songR</title><!-- favicons --><link rel="icon" type="image/png" sizes="96x96" href="favicon-96x96.png"><link rel="icon" type="”image/svg+xml”" href="favicon.svg"><link rel="apple-touch-icon" sizes="180x180" href="apple-touch-icon.png"><link rel="icon" sizes="any" href="favicon.ico"><link rel="manifest" href="site.webmanifest"><script src="deps/jquery-3.6.0/jquery-3.6.0.min.js"></script><meta name="viewport" content="width=device-width, initial-scale=1, shrink-to-fit=no"><link href="deps/bootstrap-5.3.8/bootstrap.min.css" rel="stylesheet"><script src="deps/bootstrap-5.3.8/bootstrap.bundle.min.js"></script><link href="deps/font-awesome-6.5.2/css/all.min.css" rel="stylesheet"><link href="deps/font-awesome-6.5.2/css/v4-shims.min.css" rel="stylesheet"><script src="deps/headroom-0.11.0/headroom.min.js"></script><script src="deps/headroom-0.11.0/jQuery.headroom.min.js"></script><script src="deps/bootstrap-toc-1.0.1/bootstrap-toc.min.js"></script><script src="deps/clipboard.js-2.0.11/clipboard.min.js"></script><script src="deps/search-1.0.0/autocomplete.jquery.min.js"></script><script src="deps/search-1.0.0/fuse.min.js"></script><script src="deps/search-1.0.0/mark.min.js"></script><!-- pkgdown --><script src="pkgdown.js"></script><meta property="og:title" content="Authors and Citation"><meta property="og:image" content="https://r-heller.github.io/songR/logo.svg"></head><body>
     <a href="#main" class="visually-hidden-focusable">Skip to contents</a>
 
 

diff --git a/news/index.html b/news/index.html
@@ -1,5 +1,5 @@
 <!DOCTYPE html>
-<!-- Generated by pkgdown: do not edit by hand --><html lang="en"><head><meta http-equiv="Content-Type" content="text/html; charset=UTF-8"><meta charset="utf-8"><meta http-equiv="X-UA-Compatible" content="IE=edge"><meta name="viewport" content="width=device-width, initial-scale=1, shrink-to-fit=no"><title>Changelog • songR</title><!-- favicons --><link rel="icon" type="image/png" sizes="96x96" href="../favicon-96x96.png"><link rel="icon" type="”image/svg+xml”" href="../favicon.svg"><link rel="apple-touch-icon" sizes="180x180" href="../apple-touch-icon.png"><link rel="icon" sizes="any" href="../favicon.ico"><link rel="manifest" href="../site.webmanifest"><script src="../deps/jquery-3.6.0/jquery-3.6.0.min.js"></script><meta name="viewport" content="width=device-width, initial-scale=1, shrink-to-fit=no"><link href="../deps/bootstrap-5.3.1/bootstrap.min.css" rel="stylesheet"><script src="../deps/bootstrap-5.3.1/bootstrap.bundle.min.js"></script><link href="../deps/font-awesome-6.5.2/css/all.min.css" rel="stylesheet"><link href="../deps/font-awesome-6.5.2/css/v4-shims.min.css" rel="stylesheet"><script src="../deps/headroom-0.11.0/headroom.min.js"></script><script src="../deps/headroom-0.11.0/jQuery.headroom.min.js"></script><script src="../deps/bootstrap-toc-1.0.1/bootstrap-toc.min.js"></script><script src="../deps/clipboard.js-2.0.11/clipboard.min.js"></script><script src="../deps/search-1.0.0/autocomplete.jquery.min.js"></script><script src="../deps/search-1.0.0/fuse.min.js"></script><script src="../deps/search-1.0.0/mark.min.js"></script><!-- pkgdown --><script src="../pkgdown.js"></script><meta property="og:title" content="Changelog"><meta property="og:image" content="https://r-heller.github.io/songR/logo.svg"></head><body>
+<!-- Generated by pkgdown: do not edit by hand --><html lang="en"><head><meta http-equiv="Content-Type" content="text/html; charset=UTF-8"><meta charset="utf-8"><meta http-equiv="X-UA-Compatible" content="IE=edge"><meta name="viewport" content="width=device-width, initial-scale=1, shrink-to-fit=no"><title>Changelog • songR</title><!-- favicons --><link rel="icon" type="image/png" sizes="96x96" href="../favicon-96x96.png"><link rel="icon" type="”image/svg+xml”" href="../favicon.svg"><link rel="apple-touch-icon" sizes="180x180" href="../apple-touch-icon.png"><link rel="icon" sizes="any" href="../favicon.ico"><link rel="manifest" href="../site.webmanifest"><script src="../deps/jquery-3.6.0/jquery-3.6.0.min.js"></script><meta name="viewport" content="width=device-width, initial-scale=1, shrink-to-fit=no"><link href="../deps/bootstrap-5.3.8/bootstrap.min.css" rel="stylesheet"><script src="../deps/bootstrap-5.3.8/bootstrap.bundle.min.js"></script><link href="../deps/font-awesome-6.5.2/css/all.min.css" rel="stylesheet"><link href="../deps/font-awesome-6.5.2/css/v4-shims.min.css" rel="stylesheet"><script src="../deps/headroom-0.11.0/headroom.min.js"></script><script src="../deps/headroom-0.11.0/jQuery.headroom.min.js"></script><script src="../deps/bootstrap-toc-1.0.1/bootstrap-toc.min.js"></script><script src="../deps/clipboard.js-2.0.11/clipboard.min.js"></script><script src="../deps/search-1.0.0/autocomplete.jquery.min.js"></script><script src="../deps/search-1.0.0/fuse.min.js"></script><script src="../deps/search-1.0.0/mark.min.js"></script><!-- pkgdown --><script src="../pkgdown.js"></script><meta property="og:title" content="Changelog"><meta property="og:image" content="https://r-heller.github.io/songR/logo.svg"></head><body>
     <a href="#main" class="visually-hidden-focusable">Skip to contents</a>
 
 